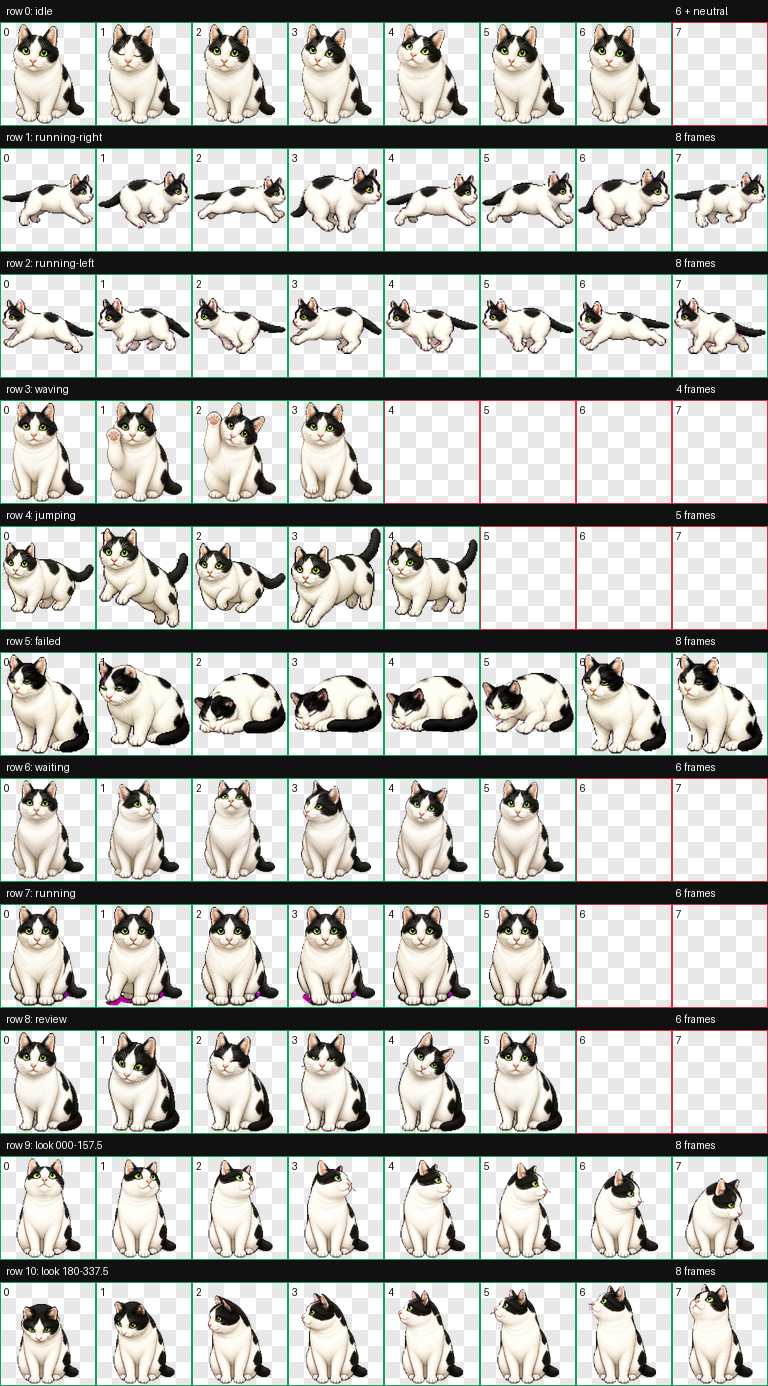
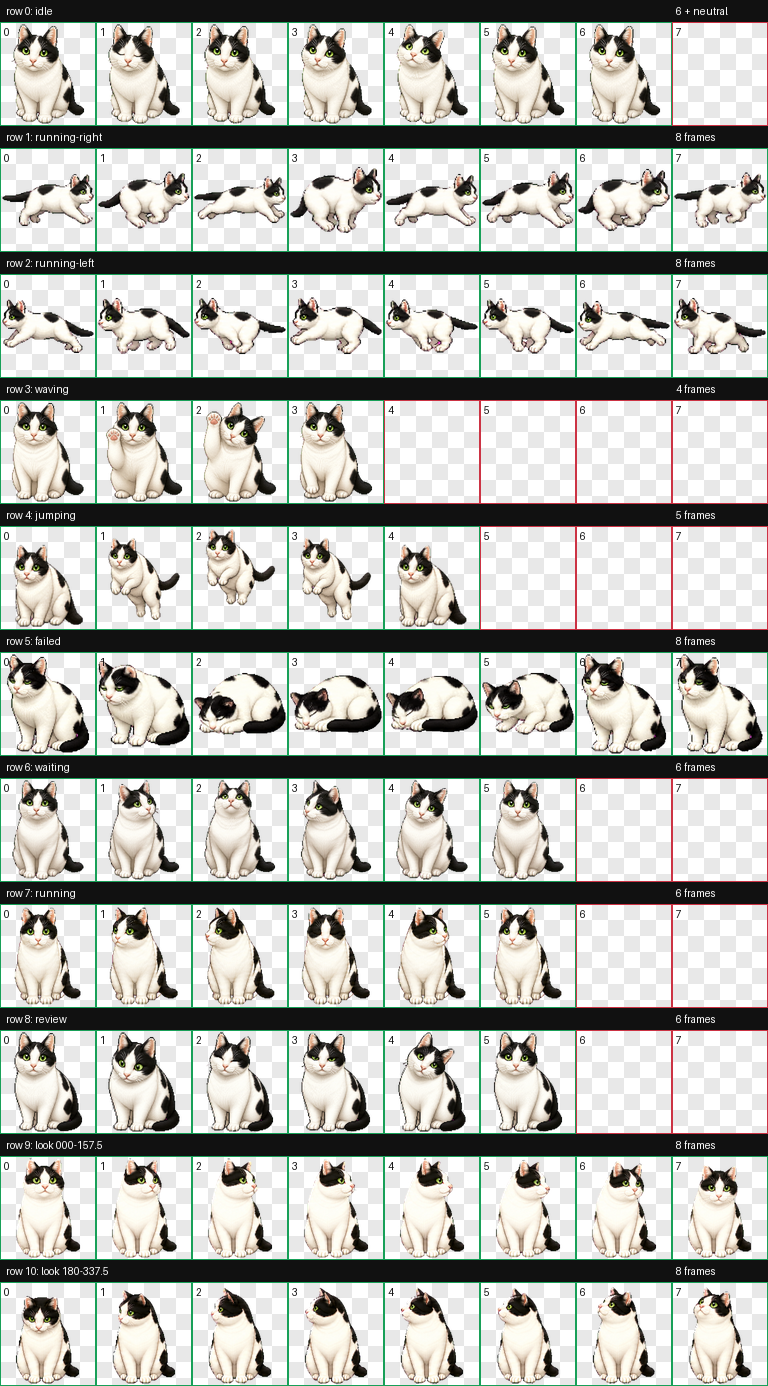
feat: release Doopal Pet v2.0.0

diff --git a/README.md b/README.md
@@ -1,6 +1,6 @@
 # kwakdoo8
 
-`kwakdoo8` is a custom black-and-white cat Pet for the ChatGPT/Codex desktop app, modeled after 곽두팔 (두팔).
+`kwakdoo8` is a custom black-and-white cat Pet for the ChatGPT/Codex desktop app, modeled after 곽두팔 (두팔, [@kwakdoo8](https://www.instagram.com/kwakdoo8/)).
 
 The public repository contains only the distributable Pet package, versioning metadata, and installation documentation. Private source photos, personal workspace notes, and rejected generation artifacts are intentionally excluded.
 
@@ -22,7 +22,7 @@ cd kwakdoo8
 ./scripts/install.sh
 ```
 
-Restart or refresh the desktop app, then select `두팔` from the Pet list.
+Restart or refresh the desktop app, then select `Doopal` from the Pet list.
 
 ## Install or roll back to a specific version
 
@@ -30,28 +30,31 @@ Every released package is immutable under `versions/`. Reinstalling an older ver
 
 ```bash
 ./scripts/list-versions.sh
-./scripts/install.sh v1.0.0
+./scripts/install.sh v2.0.0
+./scripts/install.sh v1.0.0 # roll back to the previous identity
 ```
 
 Before overwriting the active package, the installer saves it under:
 
 ```text
-~/.codex/pets/.dupal-backups/<timestamp>/
+~/.codex/pets/.<pet-id>-backups/<timestamp>/
 ```
 
-Git tags and GitHub Releases use the same semantic version, such as `v1.0.0`.
+When switching between v1 and v2, it also moves the replaced `dupal` or `doopal` directory into the matching backup directory. Git tags and GitHub Releases use the same semantic version, such as `v2.0.0`.
 
 ## Current release
 
-- Version: `v1.0.0`
-- Pet ID: `dupal`
-- Display name: `두팔`
+- Version: `v2.0.0`
+- Pet ID: `doopal`
+- Display name: `Doopal`
 - Sprite contract: v2
 - Atlas: 8 columns × 11 rows
 - Cell: 192 × 208 px
 - Full spritesheet: 1536 × 2288 px
 - Format: transparent WebP
[2 lines of base64/hex data omitted]
+
+`v2.0.0` is a breaking identity release: the Pet ID changed from `dupal` to `doopal`. The installer handles that migration and keeps the displaced package recoverable. The visual update stabilizes cursor-facing frames, removes the magenta edge residue, replaces the awkward one-paw processing pose, and keeps the smoother jump at the same apparent scale as idle.
 
 See [the state map](docs/STATE-MAP.md) for the animation semantics and [the asset specification](docs/ASSET-SPEC.md) for the row contract.
 

diff --git a/CONTRIBUTING.md b/CONTRIBUTING.md
@@ -1,15 +1,15 @@
 # Contributing
 
-Thanks for helping improve 두팔.
+Thanks for helping improve Doopal.
 
 ## Versioning rules
 
 1. Never edit a directory already published under `versions/`.
 2. Create a new semantic version directory for every visual or metadata revision.
-3. Keep the Pet ID stable unless the change intentionally creates a separate Pet.
+3. Keep the current Pet ID, `doopal`, stable unless the change intentionally creates a breaking identity release.
 4. Update `LATEST`, `CHANGELOG.md`, checksums, and documentation together.
 5. Validate the complete v2 atlas and visually review every state and direction before release.
-6. Tag the release with the exact directory version, for example `v1.1.0`.
+6. Tag the release with the exact directory version, for example `v2.1.0`.
 
 Use a patch version for packaging or metadata fixes, a minor version for compatible visual revisions, and a major version for a breaking sprite-contract or identity change.
 

diff --git a/CHANGELOG.md b/CHANGELOG.md
@@ -2,6 +2,21 @@
 
 All notable changes to the public Pet package are recorded here. Versions follow [Semantic Versioning](https://semver.org/).
 
+## [2.0.0] - 2026-08-21
+
+### Changed
+
+- Renamed the Pet ID from `dupal` to `doopal` and the display name from `두팔` to `Doopal`.
+- Rebuilt the final atlas around Doopal's approved appearance and proportions.
+- Reworked processing into a calmer left/right-looking sequence.
+
+### Fixed
+
+- Stabilized body placement across cursor-facing frames to prevent jitter.
+- Removed the visible magenta edge residue from transparent frames.
+- Refined the jump transition frames and matched the jump's apparent body scale to idle.
+- Updated the installer so v1 and v2 can replace each other with recoverable backups.
+
 ## [1.0.0] - 2026-08-21
 
 ### Added

diff --git a/docs/ASSET-SPEC.md b/docs/ASSET-SPEC.md
@@ -13,9 +13,9 @@
 Each version directory contains a complete installable package:
 
 ```text
-versions/<version>/dupal/
+versions/<version>/<pet-id>/
 ├── pet.json
 └── spritesheet.webp
 ```
 
-The package directory name and `pet.json` ID remain `dupal` across compatible revisions so a rollback replaces the same Pet entry.
+The package directory name matches the `pet.json` ID. It is `dupal` in v1 and `doopal` from v2 onward. The v2 identity change is intentionally breaking; compatible revisions after v2 keep `doopal` stable.
